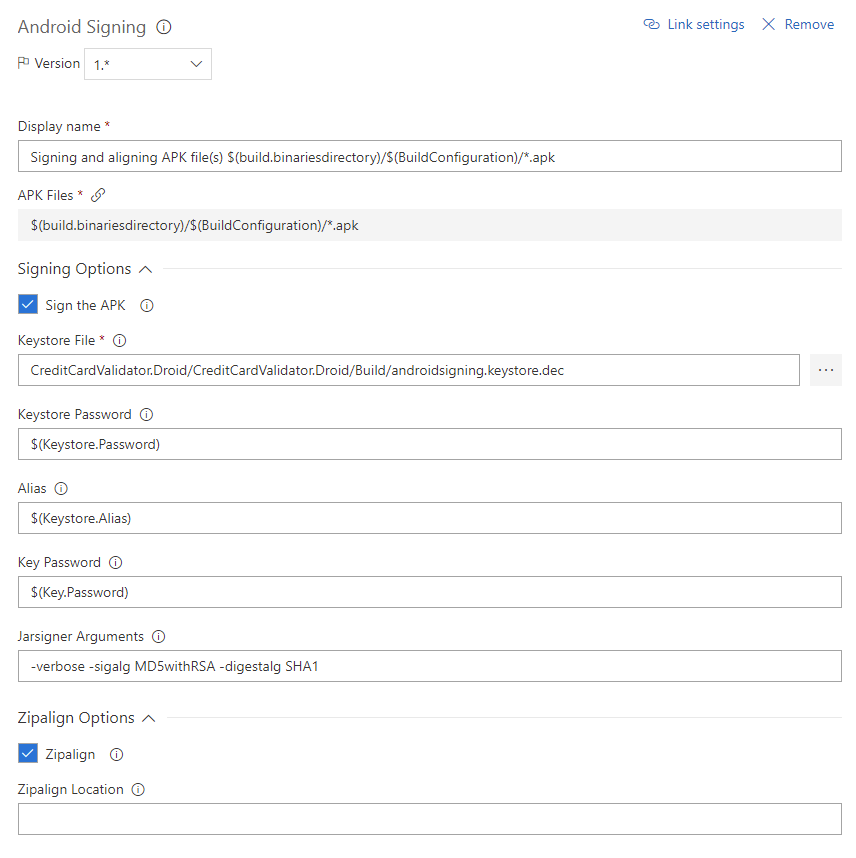
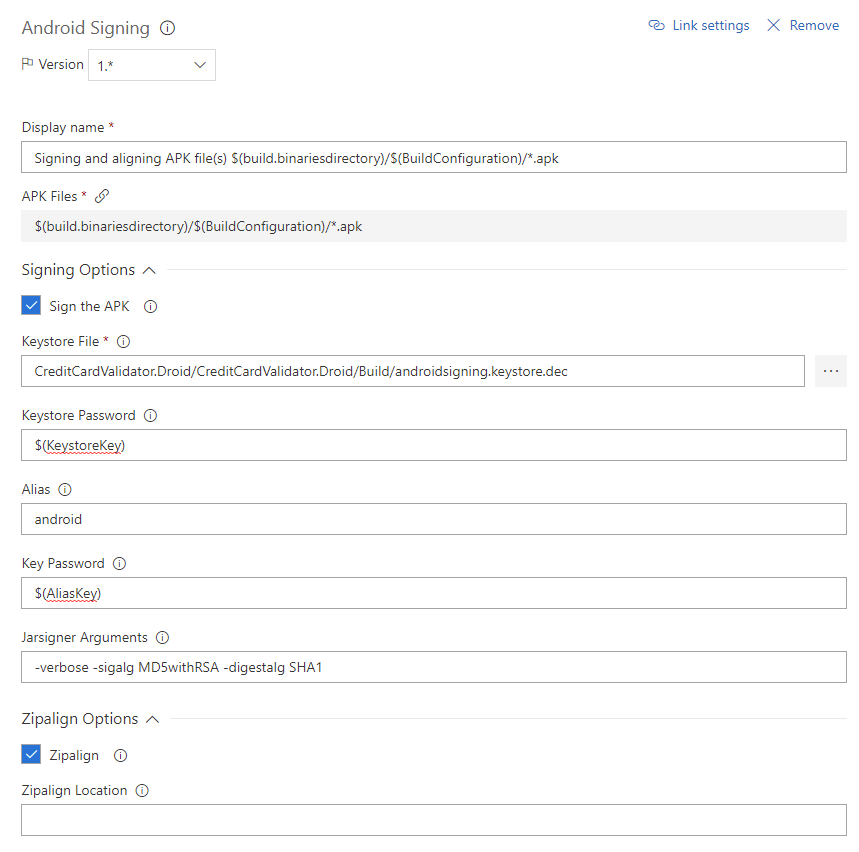
Updated notes on HockeyApp

diff --git a/mobile-devops/articles/hockey-app.md b/mobile-devops/articles/hockey-app.md
@@ -3,6 +3,7 @@
 - [Fast Track for Azure - Mobile DevOps - HockeyApp](#fast-track-for-azure---mobile-devops---hockeyapp)
   * [Introduction](#introduction)
   * [Pre-Requisites](#pre-requisites)
+  * [Introductory Remarks](#introductory-remarks)
   * [Signing Your Build](#signing-your-build)
   * [Create a new Application in HockeyApp](#create-a-new-application-in-hockeyapp)
   * [Add update distribution](#add-update-distribution)
@@ -28,6 +29,13 @@ The main focus of this guide is to display HockeyApp as part of a DevOps pipelin
 * You should have first completed the [Xamarin Test Cloud](xamarin-test-cloud.md) section. 
     > If you have not completed the Xamarin Test Cloud section, download the [CreditCardValidatior.Droid.Zip file](https://github.com/xamarin/test-cloud-samples/raw/master/Quickstarts/downloads/CreditCardValidator.Droid.zip).
 * You will require Visual Studio to add the HockeyApp nuget package to the project.
+* The Java SDK is required to create a keystore for signing an Android app
+* [OpenSSL](http://gnuwin32.sourceforge.net/packages/openssl.htm) binaries will be required for encrypting the app signing keys
+
+## Introductory Remarks
+While Xamarin test cloud does not require an application to be signed to be tested, HockeyApp will require it to be so in order to install on a device. Without a signature on your app, you may see errors in HockeyApp that refer to the package being corrupted.
+
+In addition, if you want to try builds out from Xamarin, it is important that they be tested on a real device. Unfortunately the available emulators (neither the official Android ones nor the ones available with [Visual Studio](https://www.visualstudio.com/vs/msft-android-emulator/)) will not be able to download and install the binary packages.
 
 ## Signing Your Build
 To deploy your application through HockeyApp, you should sign your built packages in accordance with requirements of the target platform. More information about application requirements are available in the [app management](https://support.hockeyapp.net/kb/app-management-2/how-to-create-a-new-version) documentation.
@@ -50,6 +58,8 @@ In this example, we are going to create a keystore / alias combination to use fo
 
     ![Screenshot](media/hockey-app/vsts-ha-22.png)
 
+4. Repeat this step to enter keys needed for the keystore and alias keys we will be using in the next step. For the sake of this walkthrough, we will assume the name are *KeystoreKey* and *AliasKey*
+
 4. (Requires Java SDK) On your computer, we will now create the keystore / alias combination. Open a command prompt and type the following command:
 
     ```
@@ -65,6 +75,7 @@ In this example, we are going to create a keystore / alias combination to use fo
     ```
 
     When prompted, provide the key that was stored in Key Vault earlier.
+    > Note: In order for VSTS to decrypt the file later, the same version of OpenSSL must be used to encrypt the file. VSTS currently uses OpenSSL v.0.9.8h 28 May 2008. This is the same one that is available at the link above.
 6. Open the CreditCardValidator.Droid solution in Visual Studio. In the CreditCardValidator.Droid project, create a new folder called **Build**. Add the androidsigning.keystore.enc to the folder so it can be included with your build.
 7. In VSTS, edit your build definition. Add an Azure Key Vault task before the Sign APK task.
 
@@ -75,6 +86,9 @@ In this example, we are going to create a keystore / alias combination to use fo
     ![Screenshot](media/hockey-app/vsts-ha-24.png)
 
     If you do not have an Azure subscription linked, click **Manage** to create a new Azure Resource Manager connection. You will need to keep track of the Service Principal Name that is created by this process.
+
+9. Repeat the previous 2 steps twice more to get the keys for the keystore and the alias that we created earlier.
+
 9. In VSTS, add a Decrypt File (OpenSSL) task after the Key Vault step.
 
     ![Screenshot](media/hockey-app/vsts-ha-25.png)
@@ -83,7 +97,7 @@ In this example, we are going to create a keystore / alias combination to use fo
 
     ![Screenshot](media/hockey-app/vsts-ha-26.png)
 
-11. Update the Sign and Align APK task to use the decrypted keystore file. In this case, we are using secret environment variables in VSTS, however these values can be stored in Key Vault as well.
+11. Update the Sign and Align APK task to use the decrypted keystore file as well as the keystore and alias keys retrieved from Key Vault.
 
     ![Screenshot](media/hockey-app/vsts-ha-27.png)
 
@@ -96,6 +110,8 @@ In this example, we are going to create a keystore / alias combination to use fo
 13. Select the Service Principal and in the **Secret permissions** area grant it **Get** and **List** permissions, then click Ok.
 
     ![Screenshot](media/hockey-app/vsts-ha-30.png)
+
+    > Note: Make sure to **Save** your changes after you have added the Service Principal.
 
 14. The build process should now be able to grab secrets from Key Vault, decrypt the keystore file, sign the APK, and then publish it for release.
 
@@ -370,7 +386,7 @@ We have now published a build to our users for testing and feedback. Once we col
 ### Updating version information for Android
 Version information for Android apps is stored in the AndroidManifest.xml file. In particular you want to look at **versionCode** and **versionName** attributes. **versionCode** is an internal number that increases each time there is a new version available while **versionName** is a display value that is represented to your users. More information about versioning is available in the [Android documentation](https://developer.android.com/studio/publish/versioning.html).
 
-In this sample we will modify our build process to increment the versionCode on each new build and update versionName to take the name of our build number from VSTS.
+In this sample we will modify our build process to set versionCode to a unique, increasing value (such as the current date) and update versionName to take the name of our build number from VSTS.
 1. If you have not already completed the code signing process above, in the CreditCardValidation.Droid project, create a new folder called **Build**.
 2. Add a new PowerShell file called **UpdateAndroidVersions.ps1**
     * Add the following code to the PowerShell file
@@ -384,8 +400,7 @@ In this sample we will modify our build process to increment the versionCode on 
             {
                 $xml = [xml](Get-Content $file);
                 $node = $xml.manifest;
-                $versionCode = [int]$node.GetAttribute("android:versionCode");
-                $versionCode += 1;
+                $versionCode = [int]((Get-Date).ToUniversalTime().ToString("yyMMddHHmm"));
                 $node.SetAttribute("android:versionCode", $versionCode);
                 $node.SetAttribute("android:versionName", $Env:BUILD_BUILDNUMBER);
                 $xml.Save($file);
